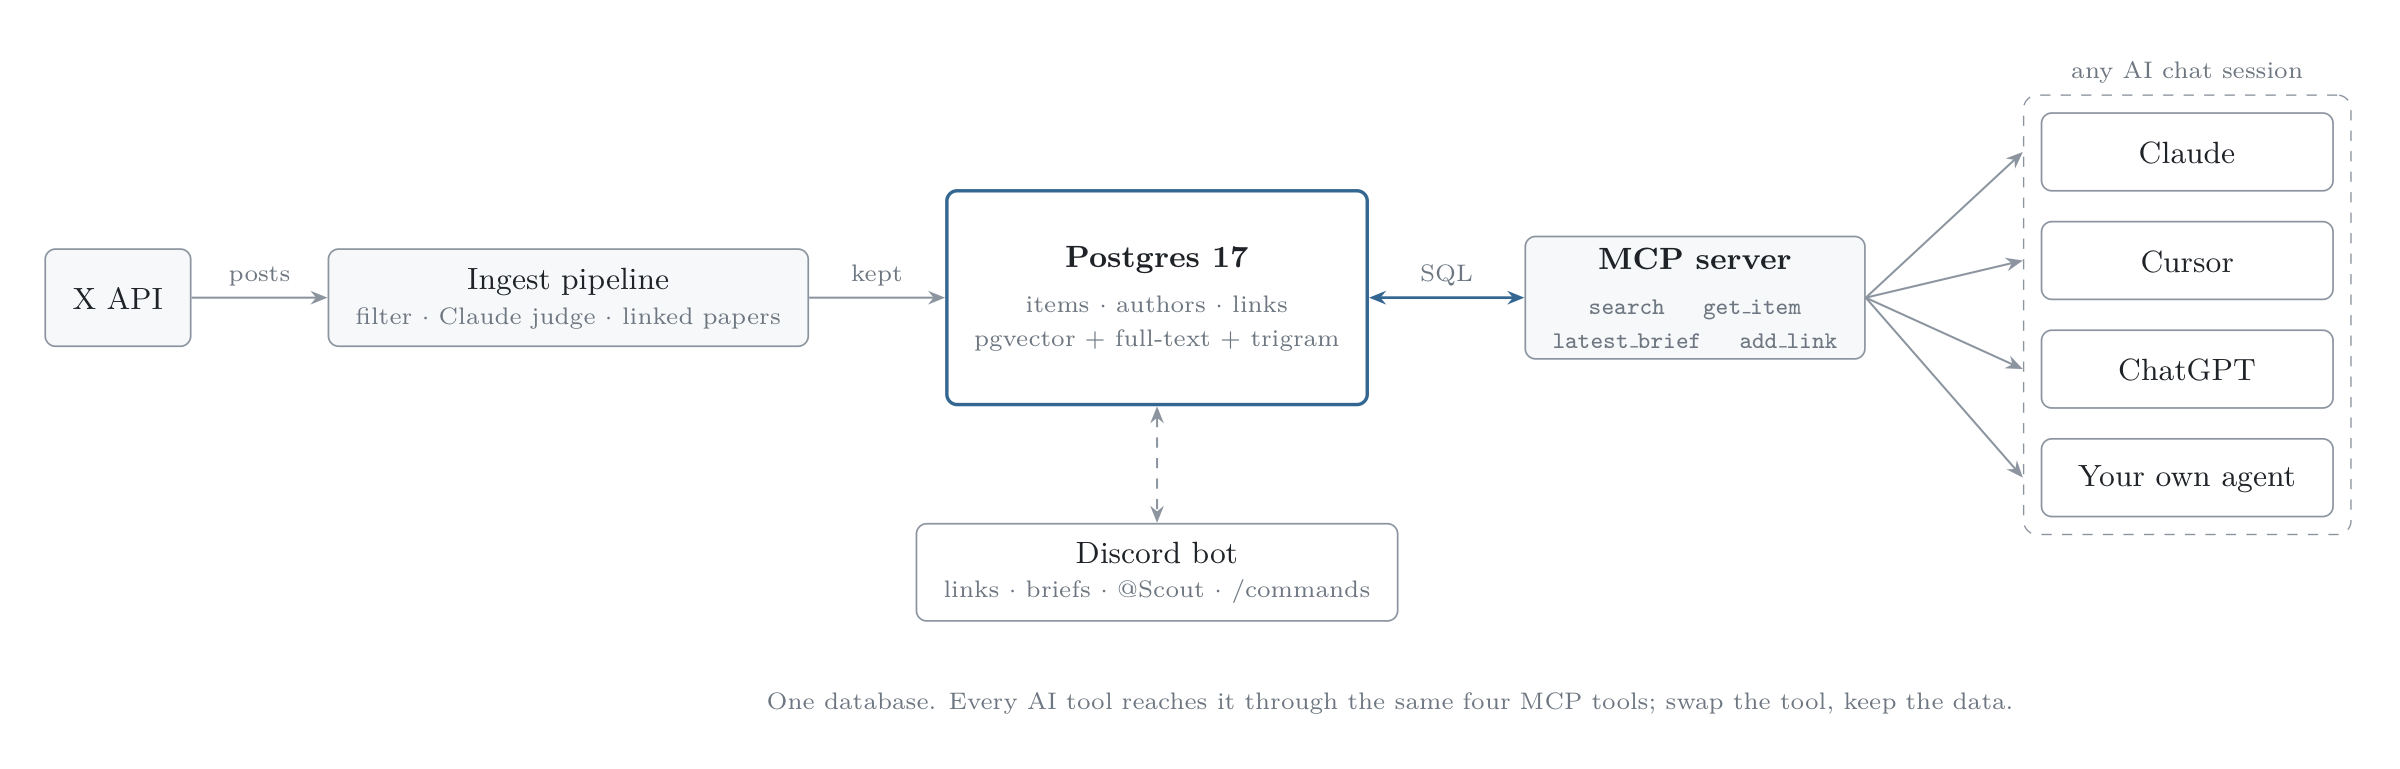
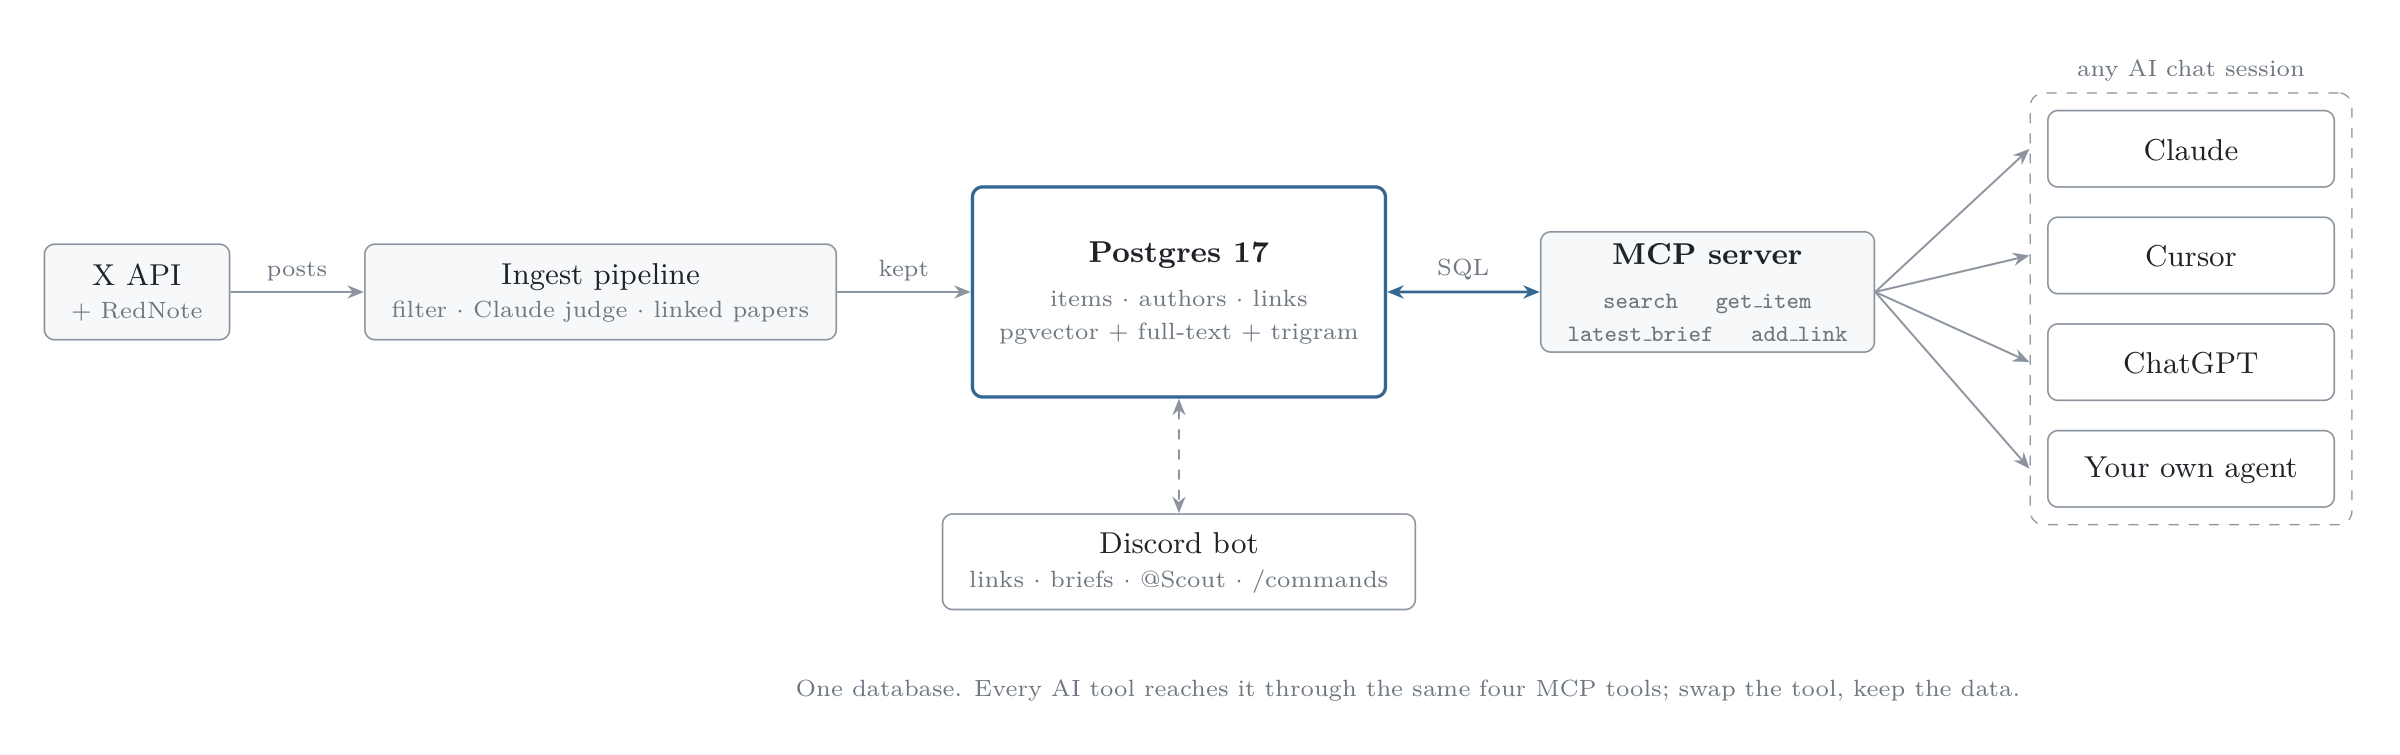
README: RedNote bullet and commands; diagram shows X + RedNote

diff --git a/docs/diagrams/mcp.tex b/docs/diagrams/mcp.tex
@@ -25,7 +25,7 @@
 \begin{tikzpicture}[node distance=9mm and 14mm]
 
   % --- write side ---
-  \node[box] (x) {X API};
+  \node[box] (x) {X API\\[-1pt] {\scriptsize\color{muted} + RedNote}};
   \node[box, right=of x] (pipe) {Ingest pipeline\\[-1pt]
     {\scriptsize\color{muted} filter $\cdot$ Claude judge $\cdot$ linked papers}};
 

diff --git a/README.md b/README.md
@@ -1,16 +1,13 @@
-# Scout: a robotics news radar 
+# Scout: a robotics news radar
 
-- **X is the source.** Every 2 hours Scout scans ~80 trusted robotics accounts plus open searches for posts that link to papers, code or big news.
-- **RedNote (小红书) too.** Chinese labs and students post paper explainers and demos there first. Scout searches it
-  through a self-hosted [xiaohongshu-mcp](https://github.com/xpzouying/xiaohongshu-mcp) server and stores each kept
-  note with an English headline and summary, so `/rednote`, `search` and `@Scout` find it in English. See
-  [docs/rednote.md](docs/rednote.md).
+- **X is the main source.** Every 2 hours Scout scans ~80 trusted robotics accounts plus open searches for posts that link to papers, code or big news.
+- **RedNote (小红书) too.** Scout searches it for Chinese robotics research and stores each note with an English headline and summary ([setup](docs/rednote.md)).
 - **Only the signal is kept.** Free rules drop spam and low-engagement posts; Claude drops promo, off-topic and noise. In testing, nothing kept was junk.
 - **Every post is followed to its source.** The arXiv paper, GitHub repo or Hugging Face model it links to is stored alongside it.
 - **One Postgres database** holds everything, searchable by meaning, keywords, author and topic.
-- **Used from Discord:** a daily brief (or `/scan`), paste links to store them, `/topic`, `/author`, `/recent`, and `@Scout` questions in plain English.
+- **Used from Discord:** a daily brief (or `/scan`), paste links to store them, `/topic`, `/author`, `/recent`, `/rednote`, `/scan_rednote`, and `@Scout` questions in plain English.
 - **Used from any AI tool through MCP:** Claude, Cursor or your own agent can search the same database. No vendor lock-in.
 
 ## Architecture
 
-![Scout architecture: X API → ingest pipeline → Postgres → MCP server → any AI chat session, with the Discord bot on the same database](docs/diagrams/mcp.png)
+![Scout architecture: X and RedNote → ingest pipeline → Postgres → MCP server → any AI chat session, with the Discord bot on the same database](docs/diagrams/mcp.png)
